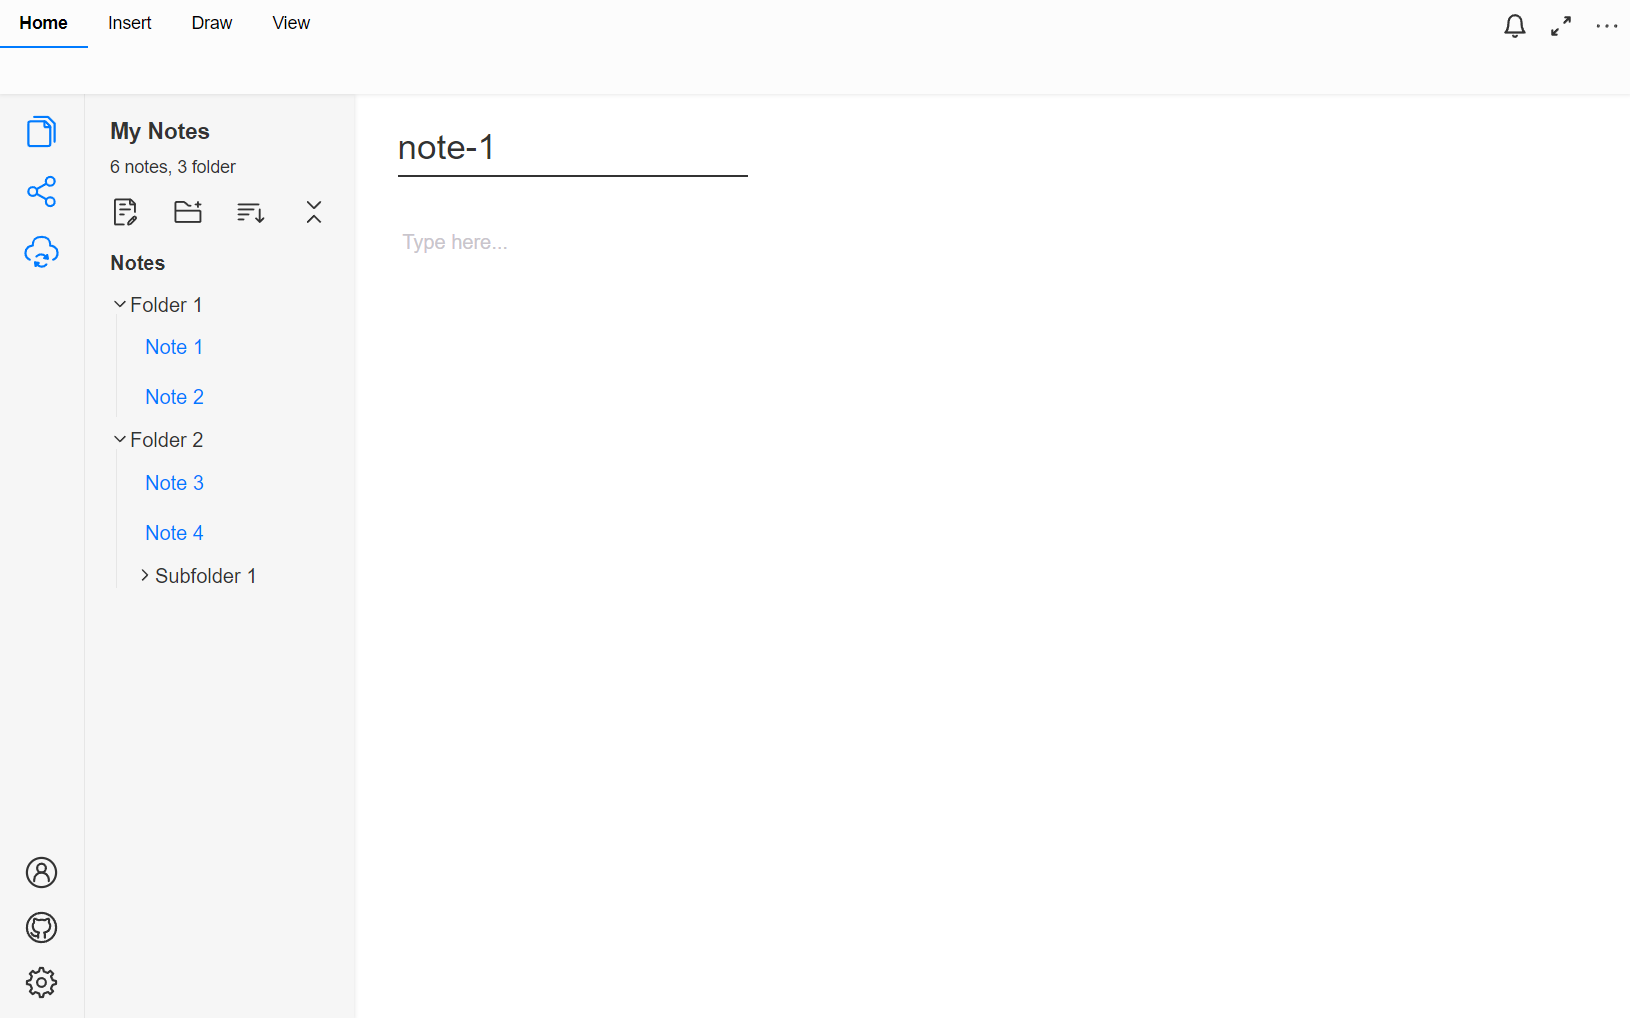
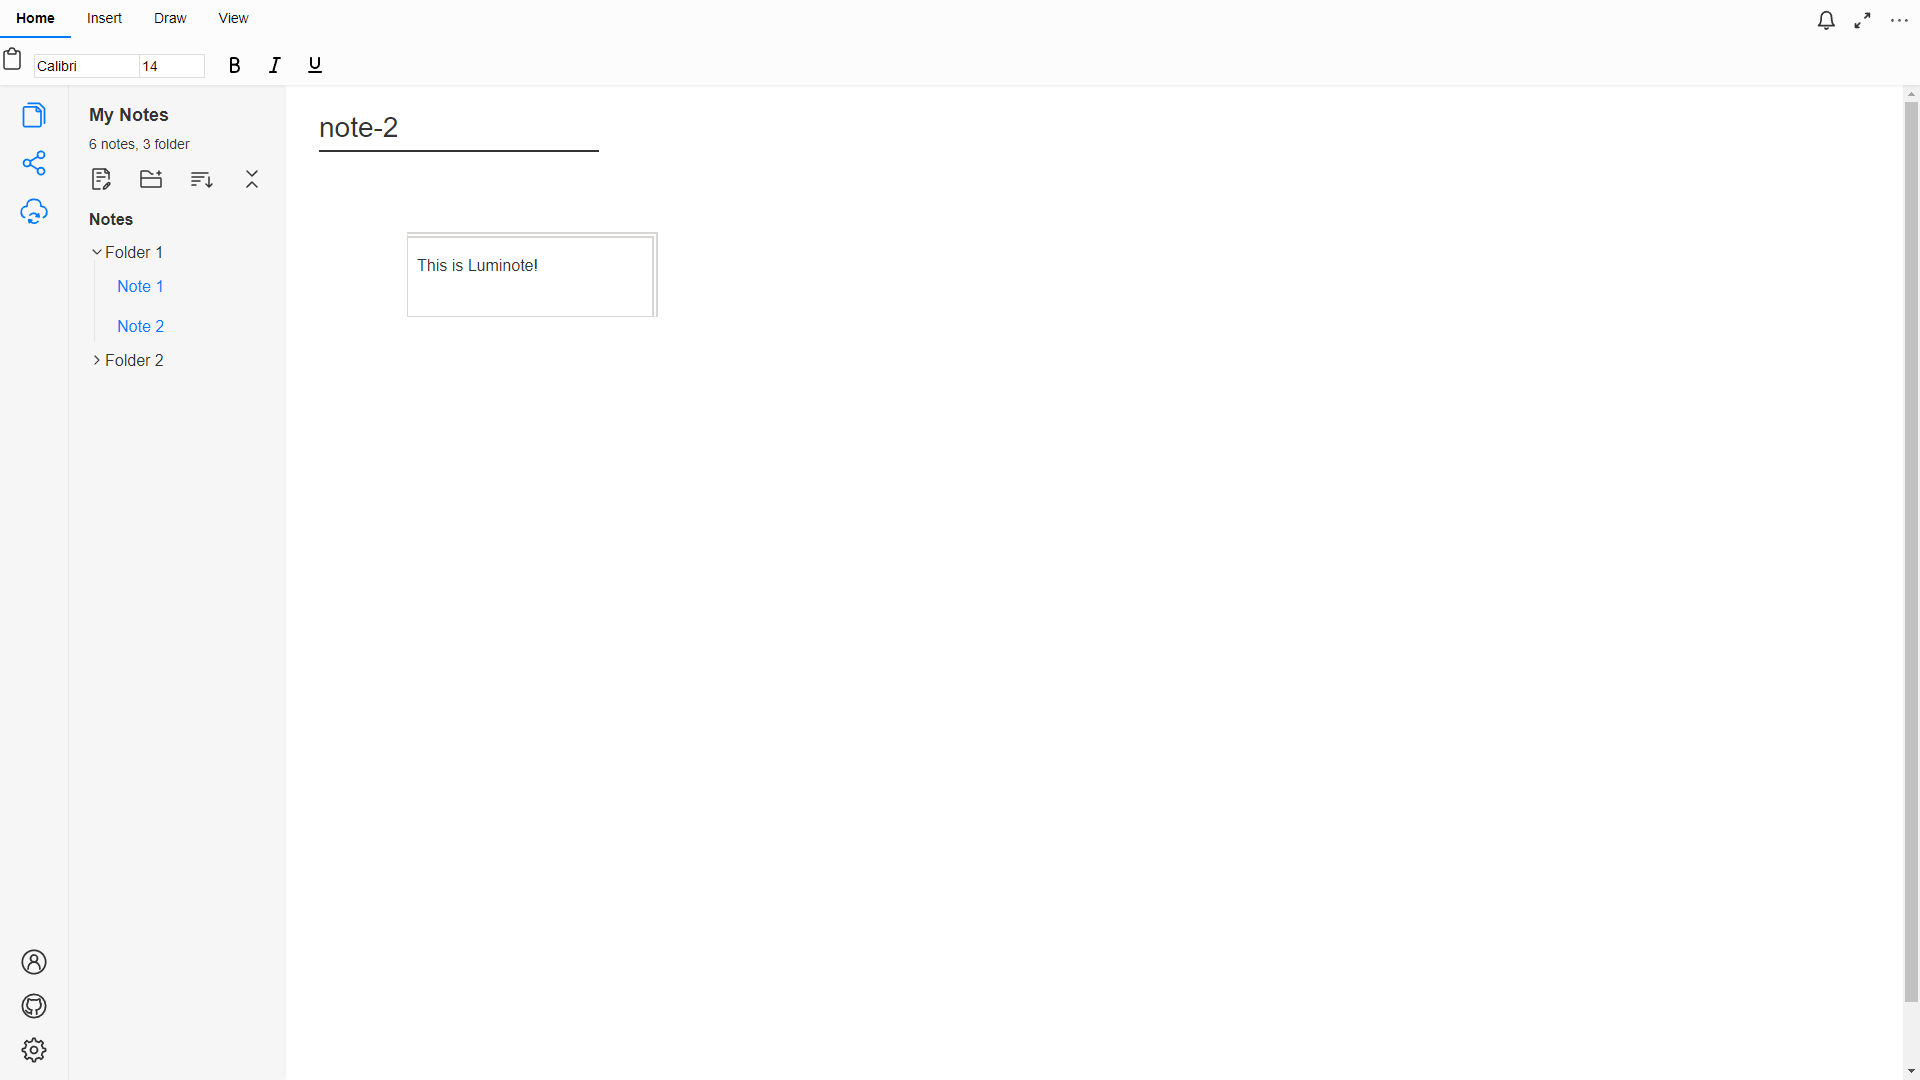
Topbar UI update

diff --git a/luminote/src/styles/layout.css b/luminote/src/styles/layout.css
@@ -4,7 +4,7 @@
     height: 100vh;
 }
 
-.main-container{
+.main-container {
     display: flex;
     flex: 1;
 }
@@ -15,10 +15,10 @@
 
 .topbar {
     background-color: #fcfcfc;
-    height: 75px;
+    height: 85px;
     z-index: 3;
     box-shadow: var(--box-shadow);
-
+    display: grid;
 }
 
 .topbar-header {
@@ -26,33 +26,71 @@
     justify-content: space-between;
 }
 
-.topbar-header > .topbar-left > button {
+.topbar-header>.topbar-left>button {
     font-size: 14px;
 }
-.topbar-header > .topbar-left > .selected {
+
+.topbar-header>.topbar-left>.selected {
     border-bottom: var(--primary-color) solid 2px;
     font-weight: 600;
 }
 
-.topbar-header >.topbar-right {
+.topbar-header>.topbar-right {
     padding-top: 10px;
     padding-right: 10px;
 }
 
-.topbar-header >.topbar-right  > * {
+.topbar-header>.topbar-right>* {
     padding-left: 16px;
 }
 
-
 .topbar-content {
+    display: flex;
+    height: 100%;
+}
 
+.font-settings {
+    display: flex;
+}
+
+.font-settings>.input-section {
+    display: flex;
+    padding: 0 10px;
+    height: 100%;
+    align-items: center;
+}
+
+.font-settings>.input-section>input {
+    border: solid #0002 1px;
+    font-size: 14px;
+    height: 20px;
+}
+
+.font-settings>.input-section input.font-name {
+    max-width: 100px;
+}
+
+.font-settings>.input-section input.font-size {
+    max-width: 60px;
+    border-left: transparent;
+}
+
+.font-settings>.action-section>button.icon-button {
+    background-color: transparent;
+    border: transparent 0px solid;
+    height: 100%;
+    width: 40px;
+}
+
+.font-settings>.action-section>button.icon-button:hover {
+    background-color: #0001;
 }
 
 .sidebar {
     display: flex;
     background-color: #f6f6f6;
     box-sizing: border-box;
-    box-shadow: var(--box-shadow); 
+    box-shadow: var(--box-shadow);
 }
 
 .sidebar-actions {
@@ -80,33 +118,34 @@
 }
 
 
-.sidebar-content {   
+.sidebar-content {
     display: flex;
     min-width: 175px;
     flex-direction: column;
-    padding: 20px 20px 0 20px;   
+    padding: 20px 20px 0 20px;
 }
 
-.sidebar-header{
+.sidebar-header {
     margin-bottom: 20px;
 }
 
-.sidebar-header > .title {
+.sidebar-header>.title {
     font-size: 18px;
     margin-bottom: 10px;
 }
 
-.sidebar-header > .info {
+.sidebar-header>.info {
     font-size: 14px;
 }
 
-.sidebar-header > .action-buttons {
+.sidebar-header>.action-buttons {
     display: flex;
     justify-content: space-between;
     margin-top: 15px;
     cursor: pointer;
 }
-.sidebar-header > .action-buttons *:hover {
+
+.sidebar-header>.action-buttons *:hover {
     color: var(--primary-color);
     transition: ease-in-out 0.15s;
 }
@@ -118,39 +157,37 @@
 .sidebar-note-explorer .folder {
     position: relative;
 }
+
 .sidebar-note-explorer .folder-vertical-line::before {
     content: "";
     position: absolute;
     top: 16px;
-    left: 5px; 
-    width: .5px; 
-    height: calc(100% - 16px); 
-    background-color: #0001; 
+    left: 5px;
+    width: .5px;
+    height: calc(100% - 16px);
+    background-color: #0001;
     transition: ease 0.2s;
 }
-   
+
 .sidebar-note-explorer .folder-vertical-line:hover::before {
     background-color: rgba(0, 0, 0, 0.300);
 }
 
-.sidebar-note-explorer .folder > .folder-header {
-   display: flex;
-   cursor: pointer;
-   margin: 10px 0;
+.sidebar-note-explorer .folder>.folder-header {
+    display: flex;
+    cursor: pointer;
+    margin: 10px 0;
 }
-.sidebar-note-explorer .folder .note{
+
+.sidebar-note-explorer .folder .note {
     display: flex;
     margin-left: 20px;
     padding: 4px;
 }
-.sidebar-note-explorer .folder .note-selected {
-    
-} 
+
+.sidebar-note-explorer .folder .note-selected {}
 
 .sidebar-note-explorer .note-title {
-   margin-left: 4px;
-   line-height: 22px;
+    margin-left: 4px;
+    line-height: 22px;
 }
-
-
-

diff --git a/luminote/public/index.html b/luminote/public/index.html
@@ -9,35 +9,11 @@
       name="description"
       content="Web site created using create-react-app"
     />
-    <link rel="apple-touch-icon" href="%PUBLIC_URL%/logo192.png" />
-    <!--
-      manifest.json provides metadata used when your web app is installed on a
-      user's mobile device or desktop. See https://developers.google.com/web/fundamentals/web-app-manifest/
-    -->
     <link rel="manifest" href="%PUBLIC_URL%/manifest.json" />
-    <!--
-      Notice the use of %PUBLIC_URL% in the tags above.
-      It will be replaced with the URL of the `public` folder during the build.
-      Only files inside the `public` folder can be referenced from the HTML.
-
-      Unlike "/favicon.ico" or "favicon.ico", "%PUBLIC_URL%/favicon.ico" will
-      work correctly both with client-side routing and a non-root public URL.
-      Learn how to configure a non-root public URL by running `npm run build`.
-    -->
-    <title>React App</title>
+    <title>Luminote</title>
   </head>
   <body>
     <noscript>You need to enable JavaScript to run this app.</noscript>
     <div id="root"></div>
-    <!--
-      This HTML file is a template.
-      If you open it directly in the browser, you will see an empty page.
-
-      You can add webfonts, meta tags, or analytics to this file.
-      The build step will place the bundled scripts into the <body> tag.
-
-      To begin the development, run `npm start` or `yarn start`.
-      To create a production bundle, use `npm run build` or `yarn build`.
-    -->
   </body>
 </html>

diff --git a/luminote/src/components/Topbar.jsx b/luminote/src/components/Topbar.jsx
@@ -1,9 +1,32 @@
 import React from 'react';
 import { Link } from 'react-router-dom';
 import {
-    IconoirProvider, Bell, MoreHoriz, Enlarge
+    IconoirProvider, Bell, MoreHoriz, Enlarge, PasteClipboard, Bold, Italic, Underline
 } from 'iconoir-react';
 function Topbar () {
+    const HomeContent = (<>
+        <PasteClipboard />
+        <div className='font-settings'>
+            <div className='input-section'>
+                <input className='font-name' value={'Calibri'} />
+                <input className='font-size' value={'14'} />
+            </div>
+            <div className='action-section'>
+                <IconoirProvider
+                    iconProps={{
+                        strokeWidth: 2,
+                        width: '1.5rem',
+                        height: '1.5rem',
+                    }}
+                >
+                    <button className='icon-button'> <Bold /></button>
+                    <button className='icon-button'> <Italic /></button>
+                    <button className='icon-button'> <Underline /></button>
+                </IconoirProvider>
+            </div>
+        </div>
+
+    </>)
     return (
         <div className='topbar'>
             <div className='topbar-header'>
@@ -28,9 +51,9 @@ function Topbar () {
                 </div>
             </div>
             <div className='topbar-content'>
-                        
+                {HomeContent}
             </div>
-            
+
         </div>);
 }
 

diff --git a/luminote/src/styles/index.css b/luminote/src/styles/index.css
@@ -2,7 +2,7 @@ body,
 h1,
 h2,
 h3,
-h4, 
+h4,
 p,
 ul {
   margin: 0;
@@ -46,26 +46,29 @@ a:hover {
 .text-input {
   width: 100%;
   padding: 5px 0;
-  border: none; 
-  border-bottom: 2px solid #333; 
-  background: transparent; 
+  border: none;
+  border-bottom: 2px solid #333;
+  background: transparent;
   font-size: 16px;
   color: #333;
   transition: border-color 0.3s;
 }
 
-.text-input:focus {
+input:focus {
   outline: none;
-  border-color: #007BFF; 
 }
 
-.text-button{
- padding: 10px 16px;
- border: none;
- background-color: transparent;
- cursor: pointer;
+.text-input:focus {
+  border-color: #007BFF;
 }
-.text-button:hover{
+
+.text-button {
+  padding: 10px 16px;
+  border: none;
+  background-color: transparent;
+  cursor: pointer;
+}
+
+.text-button:hover {
   background-color: #f6f6f6;
 }
-
